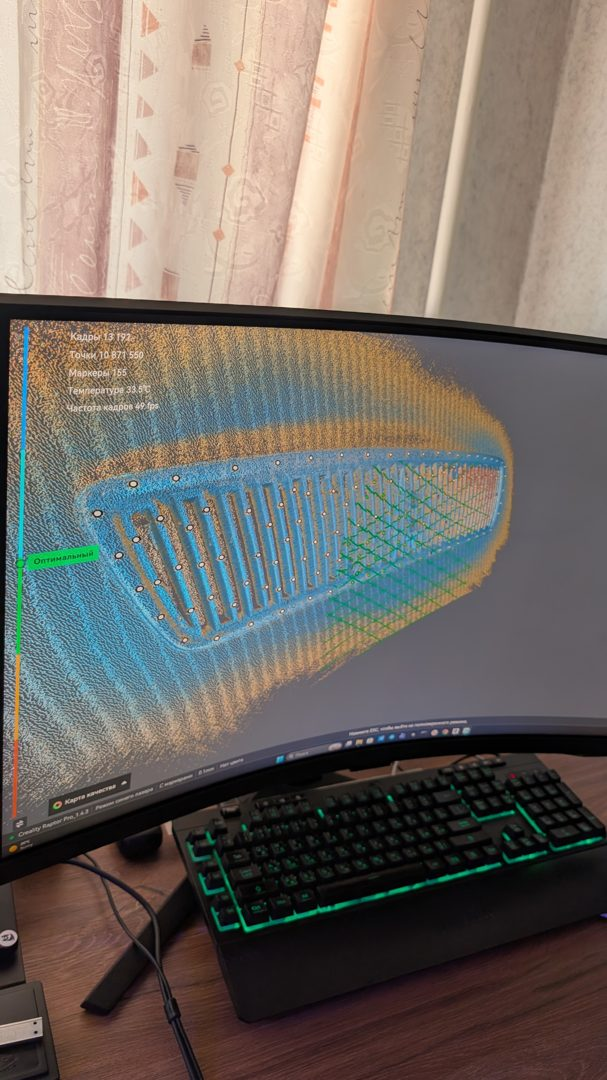
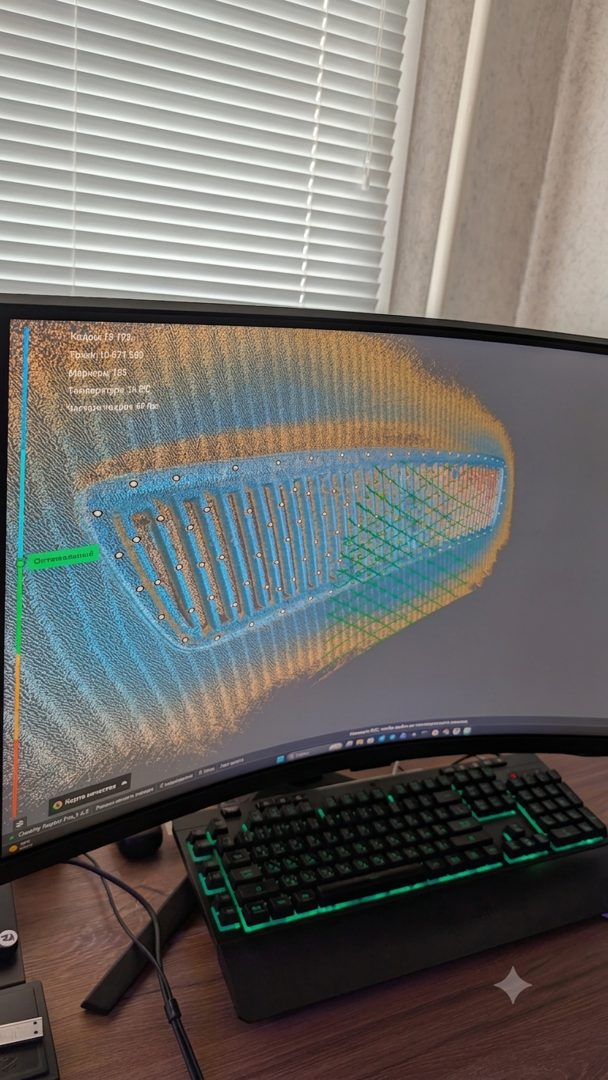
Обновить Telegram-ссылку и фото сканирования в галерее
Новая ссылка на Telegram-канал везде (контакты, подвал, Schema, CLAUDE.md).
Заменил фото скана (со шторой) на вариант с жалюзи и добавил кадр
процесса сканирования лазерным Creality Raptor Pro.

Claude-Session: https://claude.ai/code/session_01NqMRWm9VJLndyrj4t9UdZD

diff --git a/index.html b/index.html
@@ -35,7 +35,7 @@
       "addressCountry": "BY"
     },
     "areaServed": "Беларусь",
-    "sameAs": ["https://t.me/IF29aThfHeoxMzgy"]
+    "sameAs": ["https://t.me/+R_bnydGzJq0xODdi"]
   }
   </script>
 
@@ -262,10 +262,16 @@
           <figcaption>Ещё один ракурс: слева потёртый оригинал, справа — новая решётка с сетчатым рисунком</figcaption>
         </figure>
         <figure class="auto-photo">
+          <img src="img/volvo-v70-skanirovanie.jpg"
+               alt="Процесс 3D-сканирования решётки радиатора Volvo V70 лазерным сканером Creality Raptor Pro"
+               loading="lazy" width="607" height="1080">
+          <figcaption>Снимаем деталь лазерным 3D-сканером Creality Raptor Pro</figcaption>
+        </figure>
+        <figure class="auto-photo">
           <img src="img/volvo-v70-reshetka-skan.jpg"
                alt="3D-сканирование решётки радиатора Volvo V70 на сканере Creality Raptor Pro"
-               loading="lazy" width="607" height="1080">
-          <figcaption>3D-сканирование детали на Creality Raptor Pro — точная цифровая копия из 10,8 млн точек</figcaption>
+               loading="lazy" width="608" height="1080">
+          <figcaption>Готовая цифровая копия детали — облако из 10,8 млн точек</figcaption>
         </figure>
       </div>
       <p class="materials__note">
@@ -659,7 +665,7 @@
         </p>
         <ul class="contact__list">
           <li>📞 <a href="tel:[phone redacted]">[phone redacted]</a></li>
-          <li>✈️ <a href="https://t.me/IF29aThfHeoxMzgy" target="_blank" rel="noopener">Мы в Telegram — пишите и подписывайтесь</a></li>
+          <li>✈️ <a href="https://t.me/+R_bnydGzJq0xODdi" target="_blank" rel="noopener">Мы в Telegram — пишите и подписывайтесь</a></li>
           <li>✉️ <a href="mailto:[email redacted]">[email redacted]</a></li>
           <li>📍 Минск · доставка почтой по всей Беларуси</li>
         </ul>
@@ -703,7 +709,7 @@
         <a href="#faq">Вопросы</a>
         <a href="#contact">Контакты</a>
       </nav>
-      <p class="footer__copy">© 2026 3D-JET.by · Минск, Беларусь · <a href="https://t.me/IF29aThfHeoxMzgy" target="_blank" rel="noopener" class="footer__tg">Telegram</a></p>
+      <p class="footer__copy">© 2026 3D-JET.by · Минск, Беларусь · <a href="https://t.me/+R_bnydGzJq0xODdi" target="_blank" rel="noopener" class="footer__tg">Telegram</a></p>
     </div>
     <div class="container">
       <p class="footer__legal">

diff --git a/CLAUDE.md b/CLAUDE.md
@@ -21,7 +21,7 @@
 - Канонический домен — `https://3d-jet.by/` (не bobrik0v.github.io); он же в canonical, og:url, Schema.org, robots.txt и sitemap.xml
 - При изменении контента обновлять `<lastmod>` в `sitemap.xml`
 - Форма заявок шлёт письма через Web3Forms на [email redacted] (access_key в скрытом поле формы в `index.html`, отправка в `js/main.js`) — не ломать поля name/phone/message. FormSubmit не использовать — сервис лежал (ошибка 522), из-за него терялись заявки
-- Контакты: [phone redacted], Telegram https://t.me/IF29aThfHeoxMzgy, [email redacted]
+- Контакты: [phone redacted], Telegram https://t.me/+R_bnydGzJq0xODdi, [email redacted]
 - Реквизиты в подвале: ИП Довгалёв Андрей Николаевич, УНП 491761660 — не удалять
 - Оборудование: Bambu Lab X1 Carbon, Bambu Lab H2D, сканер Creality Raptor Pro
 - Цены «от»: печать от 10 BYN, моделирование+печать от 30 BYN, сканирование от 50 BYN